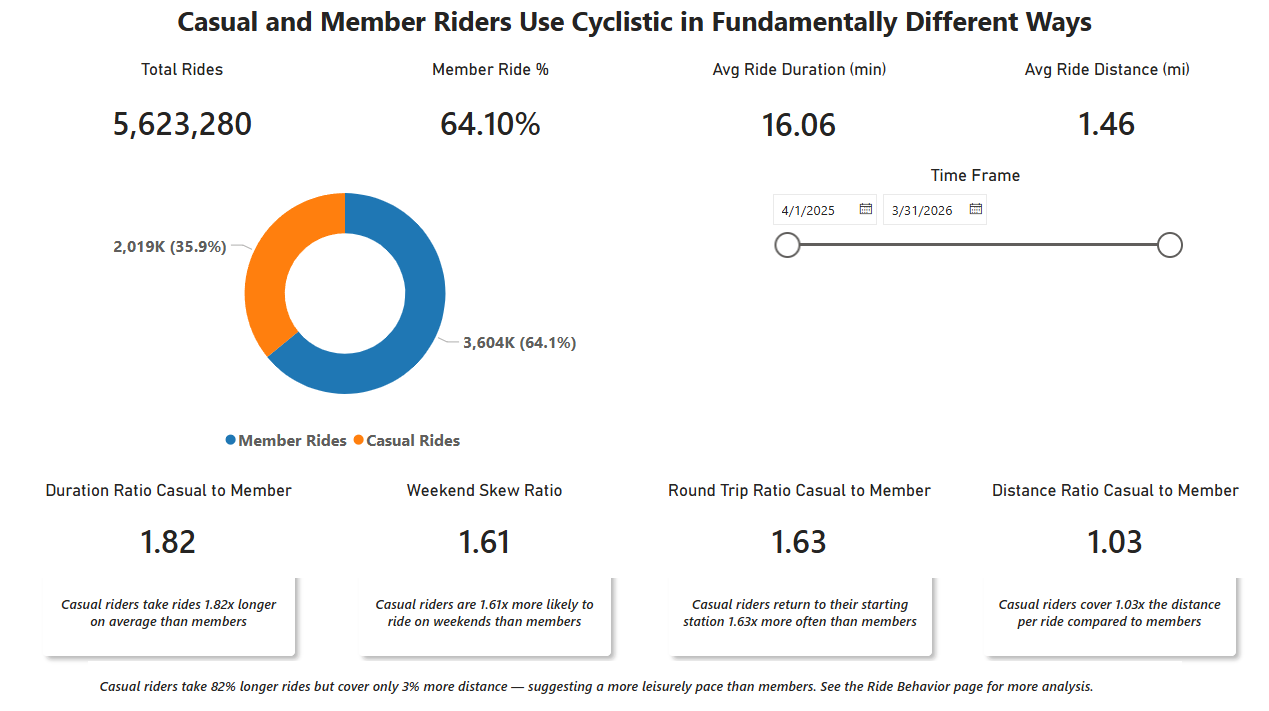
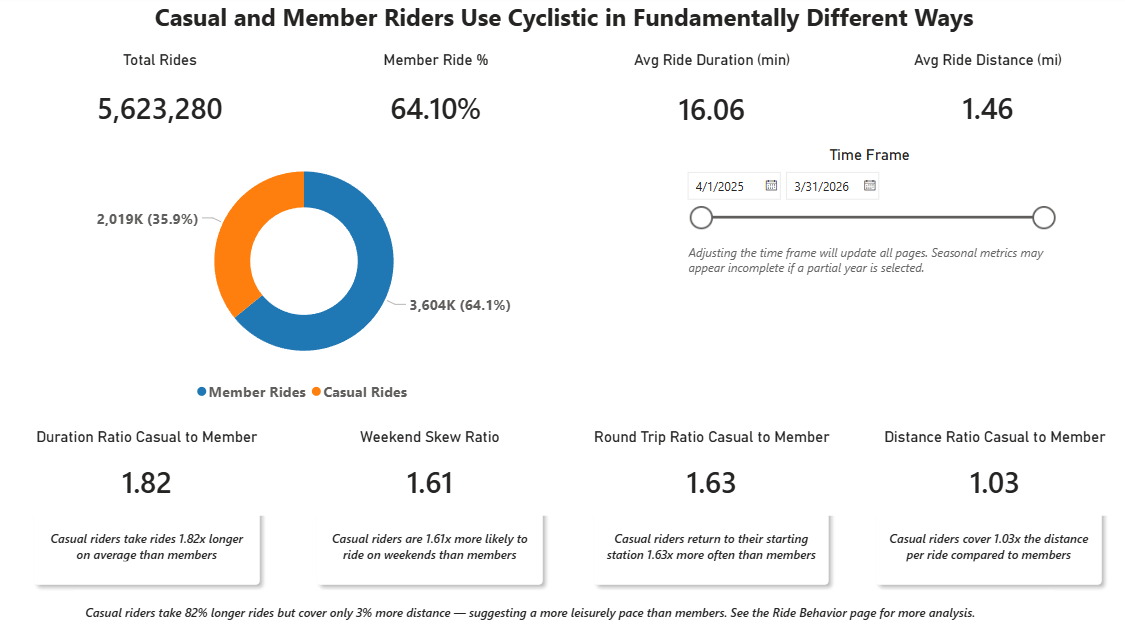
Satisfactory Page 4 for Bike Types & Stations.  Updated DAX docs and added a note about the date range slicer affecting seasonal charting.

diff --git a/Docs/transformations_powerbi.md b/Docs/transformations_powerbi.md
@@ -739,6 +739,17 @@ RETURN
 ```
 Dynamic text callout displayed at the bottom of Page 3 spanning the full canvas width. Pulls the percentage of casual rides occurring in summer months as a live data point, making the annotation data-driven rather than static. Updates automatically when slicers are adjusted. Style as Segoe UI italic, 11pt, #666666, no border, no background.
 
+### Annotation Missing Station Data
+```dax
+Annotation Missing Station Data =
+VAR Missing = CALCULATE([Rides Missing Station Data], ALL(Trips[start_station_name]), ALL(Trips[end_station_name]))
+VAR Total = CALCULATE([Total Rides], ALL(Trips[start_station_name]), ALL(Trips[end_station_name]))
+VAR MissingPct = FORMAT(DIVIDE(Missing, Total) * 100, "0.0")
+RETURN
+    FORMAT(Missing, "#,##0") & " rides (" & MissingPct & "% of total) have no station recorded. This is expected behavior for electric bike rides, which can be locked at any public bike rack rather than a designated docking station."
+```
+Dynamic text callout displayed alongside the Rides Missing Station Data card on Page 4. Uses ALL() on station name columns to remove station filter context while preserving the date filter from the synced Page 1 time frame slicer. This ensures the percentage is always calculated against total rides rather than a filtered subset. Place in the Annotations display folder in Power BI Desktop. Style as Segoe UI italic, 11pt, #666666, no border, no background.
+
 ### Display Unit Measures
 
 Simple text measures used as Category/Details field in Card visuals to display unit labels alongside numeric values. Keeps underlying measures numeric and available for calculations while providing unit context in the visual. Place in the Annotations display folder in Power BI Desktop.